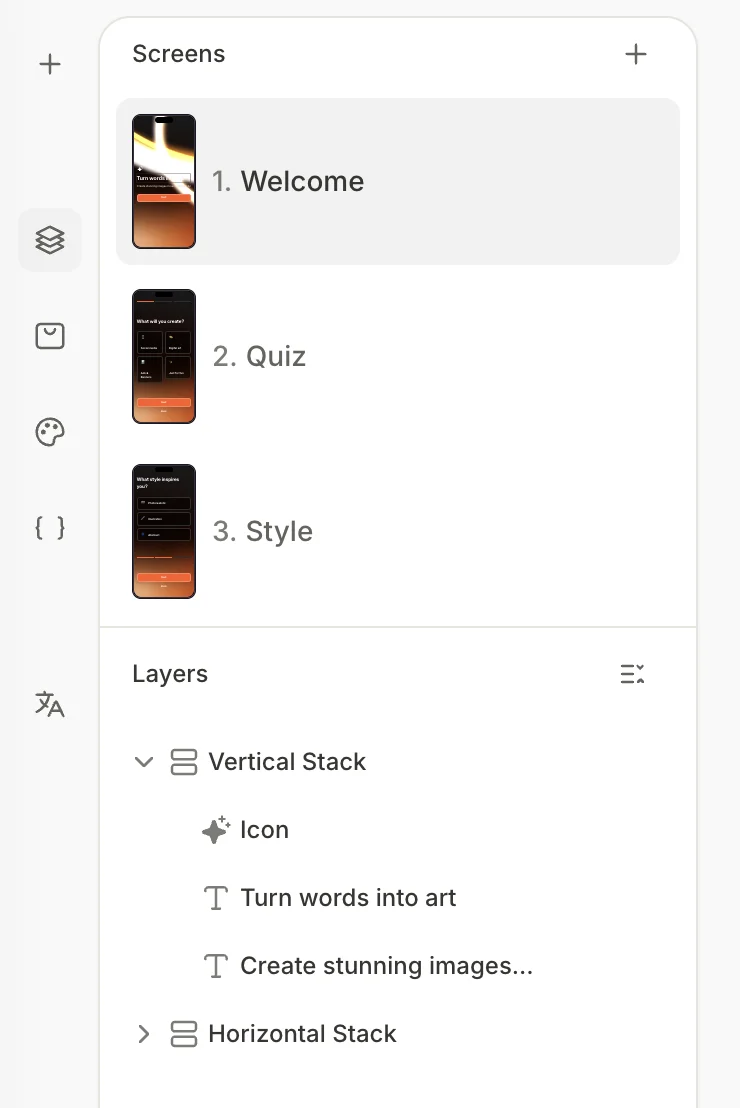
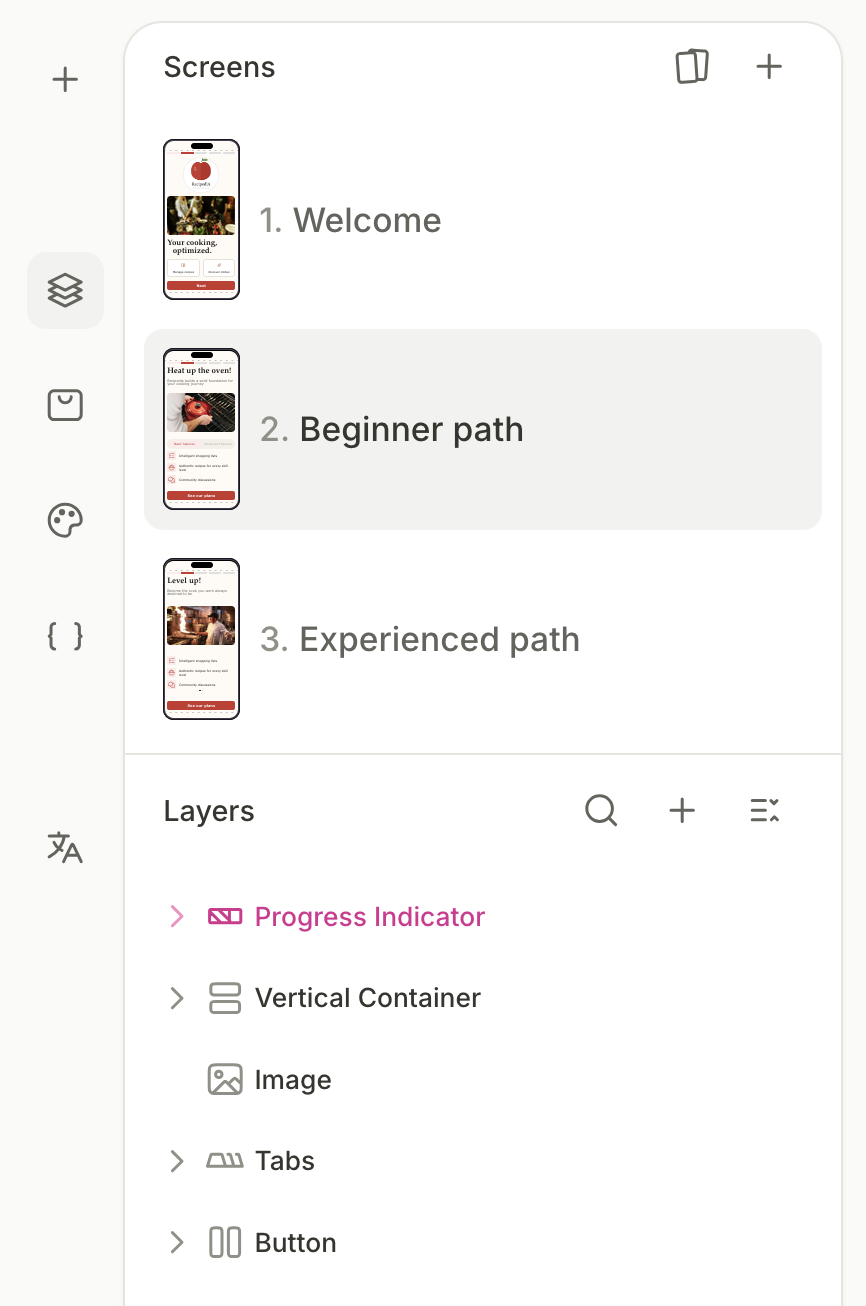
templates release

diff --git a/src/assets/Inline/_gallery.html b/src/assets/Inline/_gallery.html
@@ -78,6 +78,8 @@
 <div class="card" data-copy="<Inline id=&quot;fill-image.svg&quot; alt=&quot;Fill Image&quot; />"><div class="icon"><svg width="16" height="16" viewBox="0 0 16 16" fill="none" xmlns="http://www.w3.org/2000/svg"><path d="M2.84798 13.8186L7.24567 9.42091C7.50968 9.1569 7.64169 9.0249 7.79391 8.97544C7.9278 8.93193 8.07203 8.93193 8.20593 8.97544C8.35815 9.0249 8.49016 9.15691 8.75417 9.42091L13.1225 13.7893M9.33325 10L11.2457 8.08758C11.5097 7.82357 11.6417 7.69156 11.7939 7.6421C11.9278 7.5986 12.072 7.5986 12.2059 7.6421C12.3581 7.69156 12.4902 7.82357 12.7542 8.08758L14.6666 10M6.66659 6C6.66659 6.73638 6.06963 7.33333 5.33325 7.33333C4.59687 7.33333 3.99992 6.73638 3.99992 6C3.99992 5.26362 4.59687 4.66667 5.33325 4.66667C6.06963 4.66667 6.66659 5.26362 6.66659 6ZM4.53325 14H11.4666C12.5867 14 13.1467 14 13.5746 13.782C13.9509 13.5903 14.2569 13.2843 14.4486 12.908C14.6666 12.4802 14.6666 11.9201 14.6666 10.8V5.2C14.6666 4.0799 14.6666 3.51984 14.4486 3.09202C14.2569 2.71569 13.9509 2.40973 13.5746 2.21799C13.1467 2 12.5867 2 11.4666 2H4.53325C3.41315 2 2.85309 2 2.42527 2.21799C2.04895 2.40973 1.74299 2.71569 1.55124 3.09202C1.33325 3.51984 1.33325 4.0799 1.33325 5.2V10.8C1.33325 11.9201 1.33325 12.4802 1.55124 12.908C1.74299 13.2843 2.04895 13.5903 2.42527 13.782C2.85309 14 3.41315 14 4.53325 14Z" stroke="currentColor" stroke-width="1.25" stroke-linecap="round" stroke-linejoin="round"></path></svg></div><div class="name">fill-image.svg</div></div>
 <div class="card" data-copy="<Inline id=&quot;fill-solid.svg&quot; alt=&quot;Fill Solid&quot; />"><div class="icon"><svg xmlns="http://www.w3.org/2000/svg" width="16" height="16" viewBox="0 0 16 16" fill="none"><path d="M2.92285 2.0625H13.0771C13.5429 2.06264 13.9375 2.51279 13.9375 3.09082V12.9092C13.9375 13.4872 13.5429 13.9374 13.0771 13.9375H2.92285C2.45707 13.9374 2.06254 13.4872 2.0625 12.9092V3.09082L2.06738 2.98438C2.11234 2.45847 2.48609 2.06264 2.92285 2.0625Z" fill="currentColor" stroke="currentColor" stroke-width="0.125"></path></svg></div><div class="name">fill-solid.svg</div></div>
 <div class="card" data-copy="<Inline id=&quot;fill-video.svg&quot; alt=&quot;Fill Video&quot; />"><div class="icon"><svg width="16" height="16" viewBox="0 0 16 16" fill="none" xmlns="http://www.w3.org/2000/svg"><path d="M3.33325 3.32642C3.33325 2.67898 3.33325 2.35526 3.46825 2.17681C3.58585 2.02135 3.7656 1.92515 3.96018 1.91353C4.18354 1.9002 4.45289 2.07977 4.9916 2.4389L12.002 7.11248C12.4471 7.40923 12.6697 7.55761 12.7472 7.74462C12.815 7.90813 12.815 8.09188 12.7472 8.25538C12.6697 8.4424 12.4471 8.59077 12.002 8.88752L4.9916 13.5611C4.45289 13.9202 4.18354 14.0998 3.96018 14.0865C3.7656 14.0749 3.58585 13.9787 3.46825 13.8232C3.33325 13.6447 3.33325 13.321 3.33325 12.6736V3.32642Z" stroke="currentColor" stroke-width="1.25" stroke-linecap="round" stroke-linejoin="round"></path></svg></div><div class="name">fill-video.svg</div></div>
+<div class="card" data-copy="<Inline id=&quot;flow-failed.svg&quot; alt=&quot;Failed&quot; />"><div class="icon"><svg width="16" height="16" viewBox="0 0 16 16" fill="none" xmlns="http://www.w3.org/2000/svg"><path d="M8.00016 5.33331V7.99998M8.00016 10.6666H8.00683M14.6668 7.99998C14.6668 11.6819 11.6821 14.6666 8.00016 14.6666C4.31826 14.6666 1.3335 11.6819 1.3335 7.99998C1.3335 4.31808 4.31826 1.33331 8.00016 1.33331C11.6821 1.33331 14.6668 4.31808 14.6668 7.99998Z" stroke="#ed505a" stroke-width="1.25" stroke-linecap="round" stroke-linejoin="round"/></svg></div><div class="name">flow-failed.svg</div></div>
+<div class="card" data-copy="<Inline id=&quot;flow-live.svg&quot; alt=&quot;Live&quot; />"><div class="icon"><svg width="16" height="16" viewBox="0 0 16 16" fill="none" xmlns="http://www.w3.org/2000/svg"><rect width="16" height="16" rx="8" fill="#cfeacb"/><circle cx="8" cy="8" r="3" fill="#1ca109"/></svg></div><div class="name">flow-live.svg</div></div>
 <div class="card" data-copy="<Inline id=&quot;flows.svg&quot; alt=&quot;Flows&quot; />"><div class="icon"><svg width="16" height="16" viewBox="0 0 16 16" fill="none" xmlns="http://www.w3.org/2000/svg"><path d="M5 11C5 12.1046 4.10457 13 3 13C1.89543 13 1 12.1046 1 11C1 9.89543 1.89543 9 3 9C4.10457 9 5 9.89543 5 11ZM5 11C10.5 11 7.5 5 13 5H15M13 3L15 5M15 5L13 7" stroke="currentColor" stroke-width="1.25" stroke-linecap="round" stroke-linejoin="round"></path></svg></div><div class="name">flows.svg</div></div>
 <div class="card" data-copy="<Inline id=&quot;font-select.svg&quot; alt=&quot;Font Select&quot; />"><div class="icon"><svg width="16" height="16" viewBox="0 0 16 16" fill="none" xmlns="http://www.w3.org/2000/svg"><g clip-path="url(#font-select-clip0_459_603)"><path d="M9 12L5 3.5L1 12" stroke="currentColor" stroke-width="1.25" stroke-linecap="round" stroke-linejoin="round"></path><path d="M12.5 12C13.6046 12 14.5 11.2165 14.5 10.25C14.5 9.2835 13.6046 8.5 12.5 8.5C11.3954 8.5 10.5 9.2835 10.5 10.25C10.5 11.2165 11.3954 12 12.5 12Z" stroke="currentColor" stroke-width="1.25" stroke-linecap="round" stroke-linejoin="round"></path><path d="M14.5 12V8.25C14.5 7.28375 13.6044 6.5 12.5 6.5C11.9025 6.5 11.3663 6.63625 11 7" stroke="currentColor" stroke-width="1.25" stroke-linecap="round" stroke-linejoin="round"></path><path d="M7.82377 9.5H2.17627" stroke="currentColor" stroke-width="1.25" stroke-linecap="round" stroke-linejoin="round"></path></g><defs><clipPath id="font-select-clip0_459_603"><rect width="16" height="16" fill="white"></rect></clipPath></defs></svg></div><div class="name">font-select.svg</div></div>
 <div class="card" data-copy="<Inline id=&quot;font.svg&quot; alt=&quot;Font&quot; />"><div class="icon"><svg width="16" height="16" viewBox="0 0 16 16" fill="none" xmlns="http://www.w3.org/2000/svg" size="16"><path d="M2.66675 4.66666C2.66675 4.0454 2.66675 3.73477 2.76824 3.48975C2.90357 3.16304 3.16313 2.90348 3.48984 2.76815C3.73486 2.66666 4.04549 2.66666 4.66675 2.66666H11.3334C11.9547 2.66666 12.2653 2.66666 12.5103 2.76815C12.837 2.90348 13.0966 3.16304 13.2319 3.48975C13.3334 3.73477 13.3334 4.0454 13.3334 4.66666M6.00008 13.3333H10.0001M8.00008 2.66666V13.3333" stroke="currentColor" stroke-width="1.25" stroke-linecap="round" stroke-linejoin="round"></path></svg></div><div class="name">font.svg</div></div>
@@ -89,7 +91,7 @@
 <div class="card" data-copy="<Inline id=&quot;layers.svg&quot; alt=&quot;Layers&quot; />"><div class="icon"><svg width="16" height="16" viewBox="0 0 16 16" fill="none" xmlns="http://www.w3.org/2000/svg"><g clip-path="url(#layers-clip0_459_404)"><path d="M4.66659 6.33334L1.33325 8L7.7614 11.2141C7.84886 11.2578 7.89259 11.2797 7.93845 11.2883C7.97908 11.2959 8.02076 11.2959 8.06138 11.2883C8.10725 11.2797 8.15098 11.2578 8.23843 11.2141L14.6666 8L11.3333 6.33334M4.66659 9.66667L1.33325 11.3333L7.7614 14.5474C7.84886 14.5911 7.89259 14.613 7.93845 14.6216C7.97908 14.6292 8.02076 14.6292 8.06138 14.6216C8.10725 14.613 8.15098 14.5911 8.23843 14.5474L14.6666 11.3333L11.3333 9.66667M1.33325 4.66667L7.7614 1.45259C7.84886 1.40887 7.89259 1.387 7.93845 1.3784C7.97907 1.37078 8.02076 1.37078 8.06138 1.3784C8.10725 1.387 8.15098 1.40887 8.23843 1.45259L14.6666 4.66667L8.23843 7.88075C8.15098 7.92447 8.10725 7.94634 8.06138 7.95494C8.02076 7.96256 7.97907 7.96256 7.93845 7.95494C7.89259 7.94634 7.84886 7.92447 7.7614 7.88075L1.33325 4.66667Z" stroke="currentColor" stroke-width="1.25" stroke-linecap="round" stroke-linejoin="round"></path></g><defs><clipPath id="layers-clip0_459_404"><rect width="16" height="16" fill="white"></rect></clipPath></defs></svg></div><div class="name">layers.svg</div></div>
 <div class="card" data-copy="<Inline id=&quot;light-mode.svg&quot; alt=&quot;Light Mode&quot; />"><div class="icon"><svg width="16" height="16" viewBox="0 0 16 16" fill="none" xmlns="http://www.w3.org/2000/svg"><g clip-path="url(#light-mode-clip0_459_305)"><path d="M8.00016 1.33334V2.66668M8.00016 13.3333V14.6667M2.66683 8.00001H1.3335M4.20957 4.20942L3.26676 3.26661M11.7908 4.20942L12.7336 3.26661M4.20957 11.7933L3.26676 12.7362M11.7908 11.7933L12.7336 12.7362M14.6668 8.00001H13.3335M11.3335 8.00001C11.3335 9.84096 9.84111 11.3333 8.00016 11.3333C6.15921 11.3333 4.66683 9.84096 4.66683 8.00001C4.66683 6.15906 6.15921 4.66668 8.00016 4.66668C9.84111 4.66668 11.3335 6.15906 11.3335 8.00001Z" stroke="currentColor" stroke-width="1.25" stroke-linecap="round" stroke-linejoin="round"></path></g><defs><clipPath id="light-mode-clip0_459_305"><rect width="16" height="16" fill="white"></rect></clipPath></defs></svg></div><div class="name">light-mode.svg</div></div>
 <div class="card" data-copy="<Inline id=&quot;localizations.svg&quot; alt=&quot;Localizations&quot; />"><div class="icon"><svg width="16" height="16" viewBox="0 0 16 16" fill="none" xmlns="http://www.w3.org/2000/svg"><path d="M8.60886 11.3333H13.3915M8.60886 11.3333L7.3335 14M8.60886 11.3333L10.519 7.33935C10.6729 7.01751 10.7499 6.8566 10.8552 6.80575C10.9468 6.76152 11.0535 6.76152 11.1451 6.80575C11.2504 6.8566 11.3274 7.01751 11.4813 7.33935L13.3915 11.3333M13.3915 11.3333L14.6668 14M1.3335 3.33333H5.3335M5.3335 3.33333H7.66683M5.3335 3.33333V2M7.66683 3.33333H9.3335M7.66683 3.33333C7.33607 5.30486 6.56855 7.09079 5.44386 8.58962M6.66683 9.33333C6.25848 9.14987 5.84193 8.89472 5.44386 8.58962M5.44386 8.58962C4.54218 7.89851 3.73534 6.95109 3.3335 6M5.44386 8.58962C4.37407 10.0153 2.98112 11.1812 1.3335 12" stroke="currentColor" stroke-width="1.25" stroke-linecap="round" stroke-linejoin="round"></path></svg></div><div class="name">localizations.svg</div></div>
-<div class="card" data-copy="<Inline id=&quot;pencil.svg&quot; alt=&quot;Pencil&quot; />"><div class="icon"><svg width="16" height="16" viewBox="0 0 16 16" fill="none"><g clip-path="url(#pencil-clip0_459_591)"><path d="M7.3335 2.66666H4.5335C3.41339 2.66666 2.85334 2.66666 2.42552 2.88464C2.04919 3.07639 1.74323 3.38235 1.55148 3.75867C1.3335 4.1865 1.3335 4.74655 1.3335 5.86666V11.4667C1.3335 12.5868 1.3335 13.1468 1.55148 13.5746C1.74323 13.951 2.04919 14.2569 2.42552 14.4487C2.85334 14.6667 3.41339 14.6667 4.5335 14.6667H10.1335C11.2536 14.6667 11.8137 14.6667 12.2415 14.4487C12.6178 14.2569 12.9238 13.951 13.1155 13.5746C13.3335 13.1468 13.3335 12.5868 13.3335 11.4667V8.66666M5.33348 10.6667H6.44984C6.77596 10.6667 6.93902 10.6667 7.09247 10.6298C7.22852 10.5972 7.35858 10.5433 7.47788 10.4702C7.61243 10.3877 7.72773 10.2724 7.95833 10.0418L14.3335 3.66666C14.8858 3.11437 14.8858 2.21894 14.3335 1.66666C13.7812 1.11437 12.8858 1.11437 12.3335 1.66665L5.95832 8.04182C5.72772 8.27242 5.61241 8.38772 5.52996 8.52228C5.45685 8.64157 5.40298 8.77163 5.37032 8.90768C5.33348 9.06113 5.33348 9.22419 5.33348 9.55031V10.6667Z" stroke="currentColor" stroke-width="1.25" stroke-linecap="round" stroke-linejoin="round"/></g><defs><clipPath id="pencil-clip0_459_591"><rect width="16" height="16" fill="white"/></clipPath></defs></svg></div><div class="name">pencil.svg</div></div>
+<div class="card" data-copy="<Inline id=&quot;pencil.svg&quot; alt=&quot;Pencil&quot; />"><div class="icon"><svg width="16" height="16" viewBox="0 0 16 16" fill="none" xmlns="http://www.w3.org/2000/svg"><path d="M11.9999 6.66665L9.33319 3.99998M1.6665 14.3333L3.92275 14.0826C4.19841 14.052 4.33624 14.0367 4.46507 13.995C4.57936 13.958 4.68814 13.9057 4.78843 13.8396C4.90147 13.765 4.99953 13.6669 5.19565 13.4708L13.9999 4.66665C14.7362 3.93027 14.7362 2.73636 13.9999 1.99998C13.2635 1.2636 12.0696 1.2636 11.3332 1.99998L2.52899 10.8042C2.33287 11.0003 2.23481 11.0983 2.16026 11.2114C2.09413 11.3117 2.04185 11.4205 2.00485 11.5347C1.96314 11.6636 1.94783 11.8014 1.9172 12.0771L1.6665 14.3333Z" stroke="currentColor" stroke-width="1.25" stroke-linecap="round" stroke-linejoin="round"/></svg></div><div class="name">pencil.svg</div></div>
 <div class="card" data-copy="<Inline id=&quot;per-corner.svg&quot; alt=&quot;Per Corner&quot; />"><div class="icon"><svg width="16" height="16" viewBox="0 0 16 16" fill="none" xmlns="http://www.w3.org/2000/svg" stroke-width="2.5"><path d="M2 6V4.13333C2 3.3866 2 3.01323 2.14532 2.72801C2.27316 2.47747 2.47747 2.27316 2.72801 2.14532C3.01323 2 3.3866 2 4.13333 2H6M2 10V11.8667C2 12.6134 2 12.9868 2.14532 13.272C2.27316 13.5225 2.47747 13.7268 2.72801 13.8547C3.01323 14 3.3866 14 4.13333 14H6M10 2H11.8667C12.6134 2 12.9868 2 13.272 2.14532C13.5225 2.27316 13.7268 2.47747 13.8547 2.72801C14 3.01323 14 3.3866 14 4.13333V6M10 14H11.8667C12.6134 14 12.9868 14 13.272 13.8547C13.5225 13.7268 13.7268 13.5225 13.8547 13.272C14 12.9868 14 12.6134 14 11.8667V10" stroke="currentColor" stroke-width="1.25" stroke-linecap="round" stroke-linejoin="round"></path></svg></div><div class="name">per-corner.svg</div></div>
 <div class="card" data-copy="<Inline id=&quot;plus.svg&quot; alt=&quot;Plus&quot; />"><div class="icon"><svg width="16" height="16" viewBox="0 0 16 16" fill="none" xmlns="http://www.w3.org/2000/svg"><path d="M7.99992 3.33331V12.6666M3.33325 7.99998H12.6666" stroke="currentColor" stroke-width="1.25" stroke-linecap="round" stroke-linejoin="round"></path></svg></div><div class="name">plus.svg</div></div>
 <div class="card" data-copy="<Inline id=&quot;portrait.svg&quot; alt=&quot;Portrait&quot; />"><div class="icon"><svg width="16" height="16" viewBox="0 0 16 16" fill="none" xmlns="http://www.w3.org/2000/svg" class="size-4"><path d="M4.06126 14.5213L4.34501 13.9644L4.34501 13.9644L4.06126 14.5213ZM3.47858 13.9386L2.9217 14.2224H2.9217L3.47858 13.9386ZM12.5213 13.9386L13.0781 14.2224V14.2224L12.5213 13.9386ZM11.9386 14.5213L11.6548 13.9644L11.6548 13.9644L11.9386 14.5213ZM11.9386 1.47864L12.2223 0.921759V0.921759L11.9386 1.47864ZM12.5213 2.06133L13.0781 1.77758V1.77758L12.5213 2.06133ZM4.06126 1.47864L4.34501 2.03552L4.34501 2.03552L4.06126 1.47864ZM3.47858 2.06133L4.03546 2.34507L3.47858 2.06133ZM5.59992 11.375C5.25474 11.375 4.97492 11.6548 4.97492 12C4.97492 12.3452 5.25474 12.625 5.59992 12.625V12V11.375ZM10.3999 12.625C10.7451 12.625 11.0249 12.3452 11.0249 12C11.0249 11.6548 10.7451 11.375 10.3999 11.375V12V12.625ZM5.46659 1.33331V1.95831H10.5333V1.33331V0.708313H5.46659V1.33331ZM12.6666 3.46665H12.0416V12.5333H12.6666H13.2916V3.46665H12.6666ZM10.5333 14.6666V14.0416H5.46659V14.6666V15.2916H10.5333V14.6666ZM3.33325 12.5333H3.95825V3.46665H3.33325H2.70825V12.5333H3.33325ZM5.46659 14.6666V14.0416C5.0829 14.0416 4.83273 14.0412 4.64175 14.0256C4.45806 14.0105 4.38482 13.9847 4.34501 13.9644L4.06126 14.5213L3.77752 15.0782C4.02292 15.2032 4.27897 15.2501 4.53996 15.2714C4.79365 15.2921 5.10353 15.2916 5.46659 15.2916V14.6666ZM3.33325 12.5333H2.70825C2.70825 12.8964 2.70777 13.2062 2.72849 13.4599C2.74982 13.7209 2.79666 13.977 2.9217 14.2224L3.47858 13.9386L4.03546 13.6549C4.01517 13.6151 3.98935 13.5418 3.97434 13.3581C3.95874 13.1672 3.95825 12.917 3.95825 12.5333H3.33325ZM4.06126 14.5213L4.34501 13.9644C4.21173 13.8965 4.10337 13.7882 4.03546 13.6549L3.47858 13.9386L2.9217 14.2224C3.10945 14.5909 3.40904 14.8905 3.77752 15.0782L4.06126 14.5213ZM12.6666 12.5333H12.0416C12.0416 12.917 12.0411 13.1672 12.0255 13.3581C12.0105 13.5418 11.9847 13.6151 11.9644 13.6549L12.5213 13.9386L13.0781 14.2224C13.2032 13.977 13.25 13.7209 13.2713 13.4599C13.2921 13.2062 13.2916 12.8964 13.2916 12.5333H12.6666ZM10.5333 14.6666V15.2916C10.8963 15.2916 11.2062 15.2921 11.4599 15.2714C11.7209 15.2501 11.9769 15.2032 12.2223 15.0782L11.9386 14.5213L11.6548 13.9644C11.615 13.9847 11.5418 14.0105 11.3581 14.0256C11.1671 14.0412 10.9169 14.0416 10.5333 14.0416V14.6666ZM12.5213 13.9386L11.9644 13.6549C11.8965 13.7882 11.7881 13.8965 11.6548 13.9644L11.9386 14.5213L12.2223 15.0782C12.5908 14.8905 12.8904 14.5909 13.0781 14.2224L12.5213 13.9386ZM10.5333 1.33331V1.95831C10.9169 1.95831 11.1671 1.9588 11.3581 1.9744C11.5418 1.98941 11.615 2.01523 11.6548 2.03552L11.9386 1.47864L12.2223 0.921759C11.9769 0.796721 11.7209 0.749878 11.4599 0.728554C11.2062 0.707827 10.8963 0.708313 10.5333 0.708313V1.33331ZM12.6666 3.46665H13.2916C13.2916 3.10359 13.2921 2.79371 13.2713 2.54002C13.25 2.27903 13.2032 2.02298 13.0781 1.77758L12.5213 2.06133L11.9644 2.34507C11.9847 2.38489 12.0105 2.45813 12.0255 2.64181C12.0411 2.83279 12.0416 3.08297 12.0416 3.46665H12.6666ZM11.9386 1.47864L11.6548 2.03552C11.7881 2.10343 11.8965 2.21179 11.9644 2.34507L12.5213 2.06133L13.0781 1.77758C12.8904 1.4091 12.5908 1.10951 12.2223 0.921759L11.9386 1.47864ZM5.46659 1.33331V0.708313C5.10353 0.708313 4.79365 0.707827 4.53996 0.728554C4.27897 0.749878 4.02292 0.796721 3.77752 0.921759L4.06126 1.47864L4.34501 2.03552C4.38482 2.01523 4.45806 1.98941 4.64175 1.9744C4.83273 1.9588 5.0829 1.95831 5.46659 1.95831V1.33331ZM3.33325 3.46665H3.95825C3.95825 3.08297 3.95874 2.83279 3.97434 2.64181C3.98935 2.45812 4.01517 2.38489 4.03546 2.34507L3.47858 2.06133L2.9217 1.77758C2.79666 2.02298 2.74982 2.27903 2.72849 2.54002C2.70777 2.79371 2.70825 3.10359 2.70825 3.46665H3.33325ZM4.06126 1.47864L3.77752 0.921759C3.40904 1.10951 3.10945 1.4091 2.9217 1.77758L3.47858 2.06133L4.03546 2.34507C4.10337 2.21179 4.21173 2.10343 4.34501 2.03552L4.06126 1.47864ZM5.59992 12V12.625H10.3999V12V11.375H5.59992V12Z" fill="currentColor"></path></svg></div><div class="name">portrait.svg</div></div>
@@ -106,7 +108,7 @@
 <div class="card" data-copy="<Inline id=&quot;settings.svg&quot; alt=&quot;Settings&quot; />"><div class="icon"><svg width="16" height="16" viewBox="0 0 16 16" fill="none" xmlns="http://www.w3.org/2000/svg"><path d="M2 5.33337L10 5.33337M10 5.33337C10 6.43794 10.8954 7.33337 12 7.33337C13.1046 7.33337 14 6.43794 14 5.33337C14 4.2288 13.1046 3.33337 12 3.33337C10.8954 3.33337 10 4.22881 10 5.33337ZM6 10.6667L14 10.6667M6 10.6667C6 11.7713 5.10457 12.6667 4 12.6667C2.89543 12.6667 2 11.7713 2 10.6667C2 9.56214 2.89543 8.66671 4 8.66671C5.10457 8.66671 6 9.56214 6 10.6667Z" stroke="currentColor" stroke-width="1.25" stroke-linecap="round" stroke-linejoin="round"></path></svg></div><div class="name">settings.svg</div></div>
 <div class="card" data-copy="<Inline id=&quot;strikethrough.svg&quot; alt=&quot;Strikethrough&quot; />"><div class="icon"><svg width="16" height="16" viewBox="0 0 16 16" fill="none" xmlns="http://www.w3.org/2000/svg"><path d="M4 10.6667C4 12.1394 5.19391 13.3334 6.66667 13.3334H9.33333C10.8061 13.3334 12 12.1394 12 10.6667C12 9.19393 10.8061 8.00002 9.33333 8.00002M12 5.33335C12 3.86059 10.8061 2.66669 9.33333 2.66669H6.66667C5.19391 2.66669 4 3.86059 4 5.33335M2 8.00002H14" stroke="currentColor" stroke-width="1.25" stroke-linecap="round" stroke-linejoin="round"></path></svg></div><div class="name">strikethrough.svg</div></div>
 <div class="card" data-copy="<Inline id=&quot;styles.svg&quot; alt=&quot;Styles&quot; />"><div class="icon"><svg width="16" height="16" viewBox="0 0 16 16" fill="none" xmlns="http://www.w3.org/2000/svg"><g clip-path="url(#styles-clip0_459_303)"><path d="M1.3335 8.00001C1.3335 11.6819 4.31826 14.6667 8.00016 14.6667C9.10473 14.6667 10.0002 13.7712 10.0002 12.6667V12.3333C10.0002 12.0237 10.0002 11.8689 10.0173 11.739C10.1354 10.8415 10.8416 10.1353 11.7391 10.0171C11.8691 10 12.0239 10 12.3335 10H12.6668C13.7714 10 14.6668 9.10458 14.6668 8.00001C14.6668 4.31811 11.6821 1.33334 8.00016 1.33334C4.31826 1.33334 1.3335 4.31811 1.3335 8.00001Z" stroke="currentColor" stroke-width="1.25" stroke-linecap="round" stroke-linejoin="round"></path><path d="M4.66683 8.66668C5.03502 8.66668 5.3335 8.3682 5.3335 8.00001C5.3335 7.63182 5.03502 7.33334 4.66683 7.33334C4.29864 7.33334 4.00016 7.63182 4.00016 8.00001C4.00016 8.3682 4.29864 8.66668 4.66683 8.66668Z" stroke="currentColor" stroke-width="1.25" stroke-linecap="round" stroke-linejoin="round"></path><path d="M10.6668 6.00001C11.035 6.00001 11.3335 5.70153 11.3335 5.33334C11.3335 4.96515 11.035 4.66668 10.6668 4.66668C10.2986 4.66668 10.0002 4.96515 10.0002 5.33334C10.0002 5.70153 10.2986 6.00001 10.6668 6.00001Z" stroke="currentColor" stroke-width="1.25" stroke-linecap="round" stroke-linejoin="round"></path><path d="M6.66683 5.33334C7.03502 5.33334 7.3335 5.03487 7.3335 4.66668C7.3335 4.29849 7.03502 4.00001 6.66683 4.00001C6.29864 4.00001 6.00016 4.29849 6.00016 4.66668C6.00016 5.03487 6.29864 5.33334 6.66683 5.33334Z" stroke="currentColor" stroke-width="1.25" stroke-linecap="round" stroke-linejoin="round"></path></g><defs><clippath id="styles-clip0_459_303"><rect width="16" height="16" fill="white"></rect></clippath></defs></svg></div><div class="name">styles.svg</div></div>
-<div class="card" data-copy="<Inline id=&quot;template-library.svg&quot; alt=&quot;Template library&quot; />"><div class="icon"><svg width="16" height="16" viewBox="0 0 16 16" fill="none" xmlns="http://www.w3.org/2000/svg"><path d="M5.6 2H3.06667C2.6933 2 2.50661 2 2.36401 2.07266C2.23856 2.13658 2.13658 2.23856 2.07266 2.36401C2 2.50661 2 2.6933 2 3.06667V5.6C2 5.97337 2 6.16005 2.07266 6.30266C2.13658 6.4281 2.23856 6.53009 2.36401 6.594C2.50661 6.66667 2.6933 6.66667 3.06667 6.66667H5.6C5.97337 6.66667 6.16005 6.66667 6.30266 6.594C6.4281 6.53009 6.53009 6.4281 6.594 6.30266C6.66667 6.16005 6.66667 5.97337 6.66667 5.6V3.06667C6.66667 2.6933 6.66667 2.50661 6.594 2.36401C6.53009 2.23856 6.4281 2.13658 6.30266 2.07266C6.16005 2 5.97337 2 5.6 2Z" stroke="currentColor" stroke-width="1.25" stroke-linecap="round" stroke-linejoin="round"></path><path d="M12.9333 2H10.4C10.0266 2 9.83995 2 9.69734 2.07266C9.5719 2.13658 9.46991 2.23856 9.406 2.36401C9.33333 2.50661 9.33333 2.6933 9.33333 3.06667V5.6C9.33333 5.97337 9.33333 6.16005 9.406 6.30266C9.46991 6.4281 9.5719 6.53009 9.69734 6.594C9.83995 6.66667 10.0266 6.66667 10.4 6.66667H12.9333C13.3067 6.66667 13.4934 6.66667 13.636 6.594C13.7614 6.53009 13.8634 6.4281 13.9273 6.30266C14 6.16005 14 5.97337 14 5.6V3.06667C14 2.6933 14 2.50661 13.9273 2.36401C13.8634 2.23856 13.7614 2.13658 13.636 2.07266C13.4934 2 13.3067 2 12.9333 2Z" stroke="currentColor" stroke-width="1.25" stroke-linecap="round" stroke-linejoin="round"></path><path d="M12.9333 9.33333H10.4C10.0266 9.33333 9.83995 9.33333 9.69734 9.406C9.5719 9.46991 9.46991 9.5719 9.406 9.69734C9.33333 9.83995 9.33333 10.0266 9.33333 10.4V12.9333C9.33333 13.3067 9.33333 13.4934 9.406 13.636C9.46991 13.7614 9.5719 13.8634 9.69734 13.9273C9.83995 14 10.0266 14 10.4 14H12.9333C13.3067 14 13.4934 14 13.636 13.9273C13.7614 13.8634 13.8634 13.7614 13.9273 13.636C14 13.4934 14 13.3067 14 12.9333V10.4C14 10.0266 14 9.83995 13.9273 9.69734C13.8634 9.5719 13.7614 9.46991 13.636 9.406C13.4934 9.33333 13.3067 9.33333 12.9333 9.33333Z" stroke="currentColor" stroke-width="1.25" stroke-linecap="round" stroke-linejoin="round"></path><path d="M5.6 9.33333H3.06667C2.6933 9.33333 2.50661 9.33333 2.36401 9.406C2.23856 9.46991 2.13658 9.5719 2.07266 9.69734C2 9.83995 2 10.0266 2 10.4V12.9333C2 13.3067 2 13.4934 2.07266 13.636C2.13658 13.7614 2.23856 13.8634 2.36401 13.9273C2.50661 14 2.6933 14 3.06667 14H5.6C5.97337 14 6.16005 14 6.30266 13.9273C6.4281 13.8634 6.53009 13.7614 6.594 13.636C6.66667 13.4934 6.66667 13.3067 6.66667 12.9333V10.4C6.66667 10.0266 6.66667 9.83995 6.594 9.69734C6.53009 9.5719 6.4281 9.46991 6.30266 9.406C6.16005 9.33333 5.97337 9.33333 5.6 9.33333Z" stroke="currentColor" stroke-width="1.25" stroke-linecap="round" stroke-linejoin="round"></path></svg></div><div class="name">template-library.svg</div></div>
+<div class="card" data-copy="<Inline id=&quot;template-library.svg&quot; alt=&quot;Template library&quot; />"><div class="icon"><svg width="16" height="16" viewBox="0 0 16 16" fill="none" xmlns="http://www.w3.org/2000/svg"><path d="M3.37028 2.70004L3.41387 3.32352L7.5508 3.03424L7.5072 2.41076L7.4636 1.78729L3.32668 2.07657L3.37028 2.70004ZM9.383 4.20428L8.75952 4.24788L9.32873 12.388L9.95221 12.3444L10.5757 12.3008L10.0065 4.16069L9.383 4.20428ZM8.34428 14.3815L8.30068 13.7581L4.16376 14.0473L4.20735 14.6708L4.25095 15.2943L8.38788 15.005L8.34428 14.3815ZM2.33156 12.8773L2.95504 12.8337L2.38582 4.69357L1.76235 4.73717L1.13887 4.78077L1.70808 12.9209L2.33156 12.8773ZM8.49274 1.32803L8.44914 1.9515L12.5861 2.24079L12.6297 1.61731L12.6733 0.99383L8.53633 0.704548L8.49274 1.32803ZM14.2376 3.65443L13.6141 3.61084L13.0449 11.751L13.6684 11.7946L14.2919 11.8382L14.8611 3.69803L14.2376 3.65443Z" fill="currentColor"/></svg></div><div class="name">template-library.svg</div></div>
 <div class="card" data-copy="<Inline id=&quot;text-layout-1.svg&quot; alt=&quot;Text Layout 1&quot; />"><div class="icon"><svg width="16" height="16" viewBox="0 0 16 16" fill="none" xmlns="http://www.w3.org/2000/svg"><path d="M2 2V14M4.66667 8H14M14 8L9.33333 12.6667M14 8L9.33333 3.33333" stroke="currentColor" stroke-width="1.25" stroke-linecap="round" stroke-linejoin="round"></path></svg></div><div class="name">text-layout-1.svg</div></div>
 <div class="card" data-copy="<Inline id=&quot;text-layout-2.svg&quot; alt=&quot;Text Layout 2&quot; />"><div class="icon"><svg width="16" height="16" viewBox="0 0 16 16" fill="none" xmlns="http://www.w3.org/2000/svg"><path d="M11.3338 7.99999H4.6696M11.3071 5.32233H4.68278M8.65496 10.6552H4.6696M2 2V14M14 2V14" stroke="currentColor" stroke-width="1.25" stroke-linecap="round" stroke-linejoin="round"></path></svg></div><div class="name">text-layout-2.svg</div></div>
 <div class="card" data-copy="<Inline id=&quot;text-layout-3.svg&quot; alt=&quot;Text Layout 3&quot; />"><div class="icon"><svg width="14" height="14" viewBox="0 0 14 14" fill="none" xmlns="http://www.w3.org/2000/svg"><path d="M3.95833 0.625H2.75833C2.0116 0.625 1.63823 0.625 1.35301 0.770325C1.10213 0.898156 0.898156 1.10213 0.770325 1.35301C0.625 1.63823 0.625 2.0116 0.625 2.75833V3.95833M3.95833 12.625H2.75833C2.0116 12.625 1.63823 12.625 1.35301 12.4797C1.10213 12.3518 0.898156 12.1479 0.770325 11.897C0.625 11.6118 0.625 11.2384 0.625 10.4917V9.29167M12.625 3.95833V2.75833C12.625 2.0116 12.625 1.63823 12.4797 1.35301C12.3518 1.10213 12.1479 0.898156 11.897 0.770325C11.6118 0.625 11.2384 0.625 10.4917 0.625H9.29167M12.625 9.29167V10.4917C12.625 11.2384 12.625 11.6118 12.4797 11.897C12.3518 12.1479 12.1479 12.3518 11.897 12.4797C11.6118 12.625 11.2384 12.625 10.4917 12.625H9.29167M9.95876 6.62499H3.2946M9.93213 3.94733H3.30778M7.27996 9.28016H3.2946" stroke="currentColor" stroke-width="1.25" stroke-linecap="round" stroke-linejoin="round"></path></svg></div><div class="name">text-layout-3.svg</div></div>